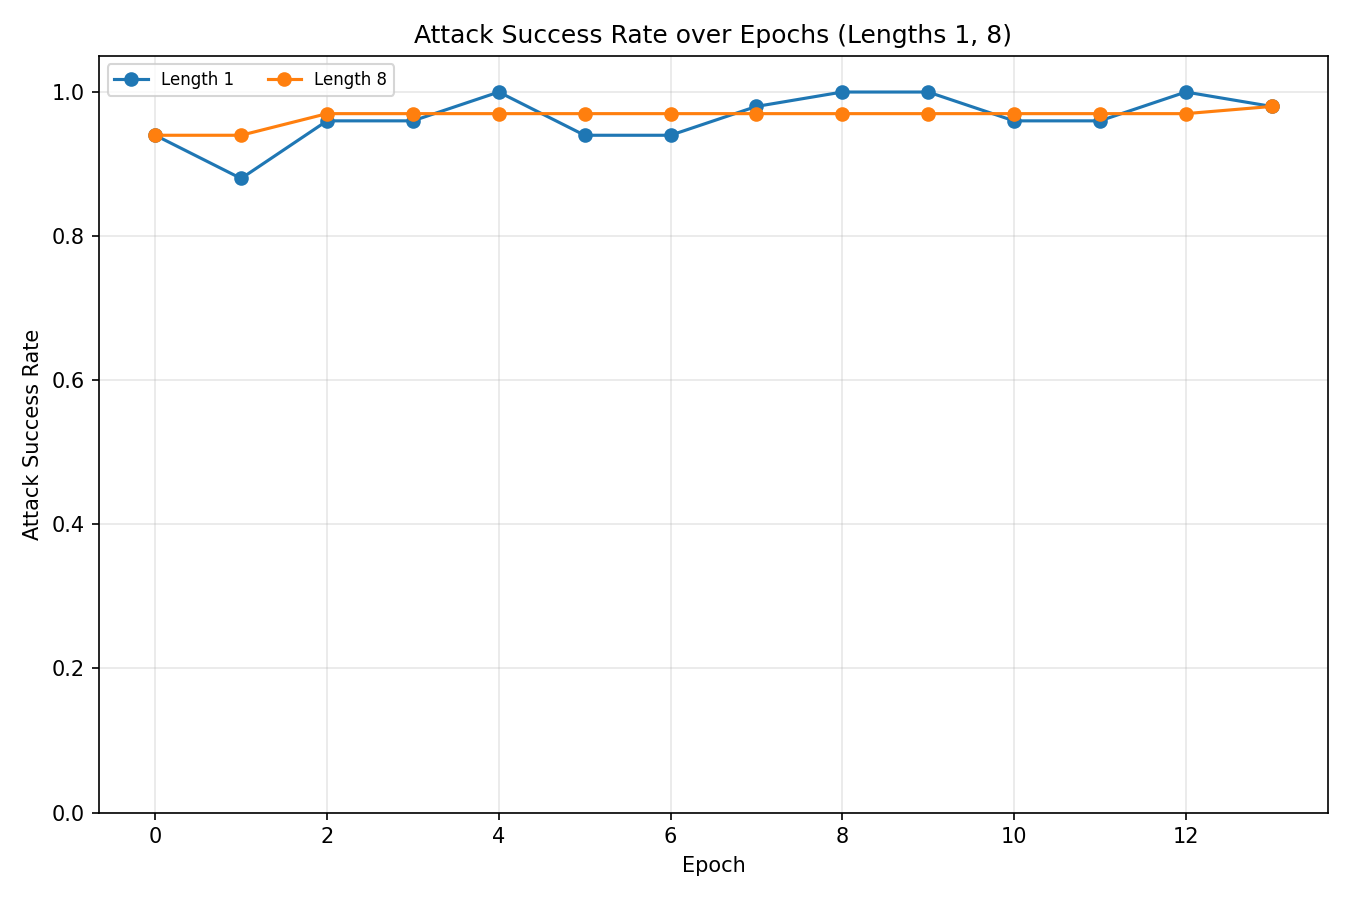
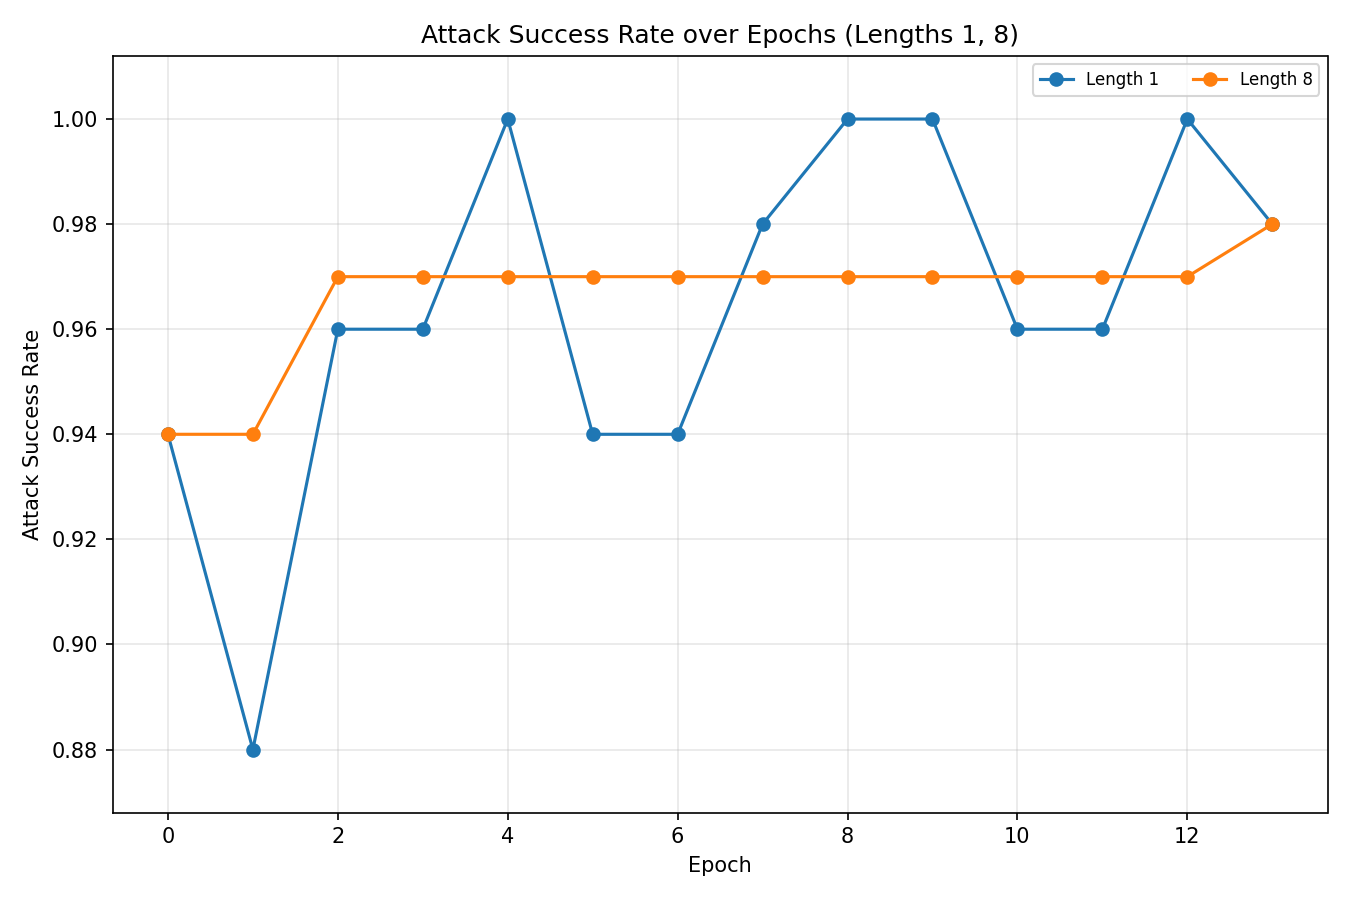
hopefully last commit

diff --git a/README.md b/README.md
@@ -55,12 +55,21 @@ All patterns have been generated randomly.
 | 8 | 92% | 5% |
 | 32 | 2% | 1% |
 
+### Plots
 
+#### ASR and FTR changes over epochs
 ![All results](assets/asr_ftr_by_pattern.png)
 
+#### ASR and FTR changes over shortest and longest working patterns
 ![ASR over epochs](assets/asr.png)
 
 ![FTR over epochs](assets/ftr.png)
+
+### Conclusions
+- Increasing the pattern length generally doesn't improve ASR by much, but most importantly false triggers are becoming less frequent.
+- This holds for the shorter patterns, but when the significantly longer pattern was tested, the model would rarely trigger the backdoor response at all (see the table).
+This is suprising behavior, because I'd expect the model to at least mimic the distribution from the training dataset, as it did in the experimentation phase with shorter keys.
+The reason for that might be related to the fact, that for longer key I have extented the allowed number of produced tokens in the generated answer, all other parameters have stayed the same.
 
 ## Project structure
 
@@ -92,6 +101,6 @@ python3 src/evaluate.py -l [LOGS]
 
 ## Remarks
 - Bigger validation and testing sample size should have been used, final calculation of metrics is a bit noisy.
-- During the milestone presentation the biggest hurdle in achieving greater performance was due to a bug, an incorrect chat template was being been used.
+- During the milestone presentation the biggest hurdle in achieving greater performance was caused by a bug, an incorrect chat template was being been used.
 Changes to it and increasing both epoch count and training sample pool resulted in over 90%-ish attack success rates for shorter patterns.
 
